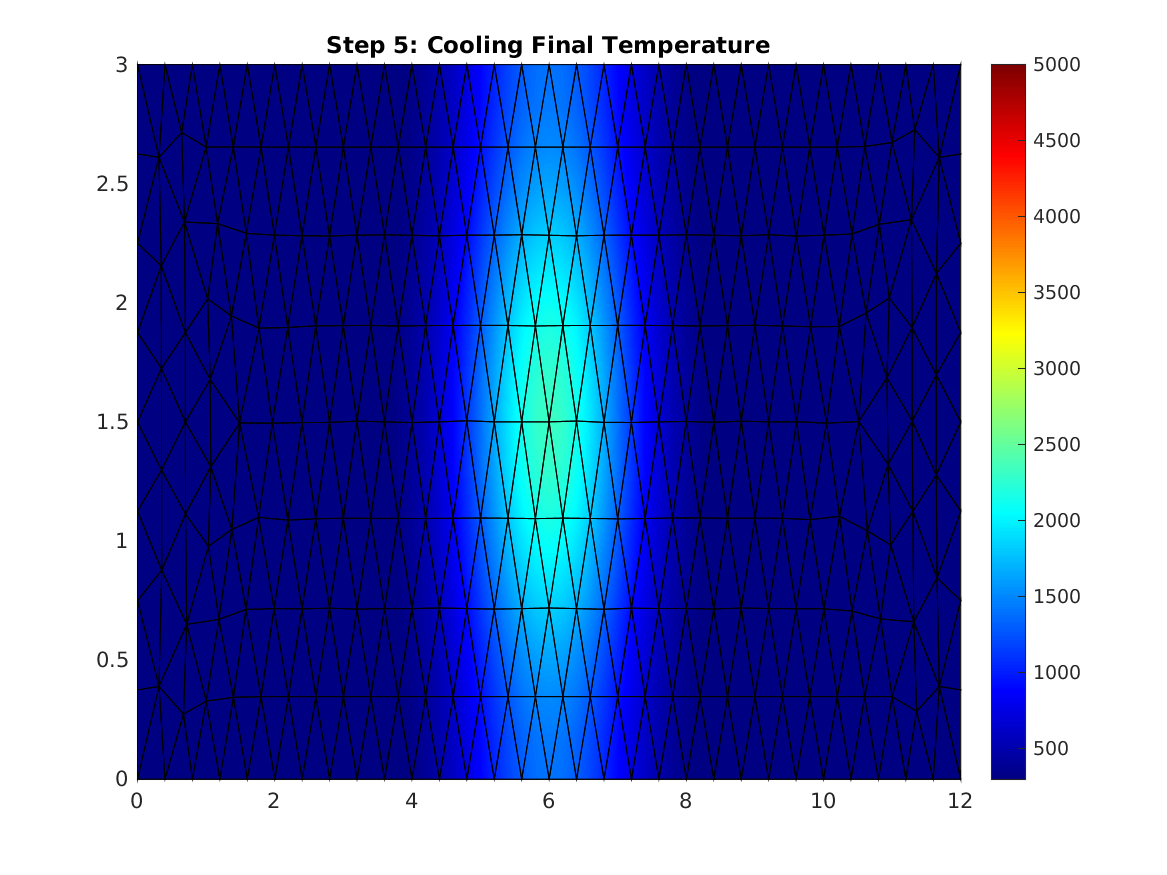
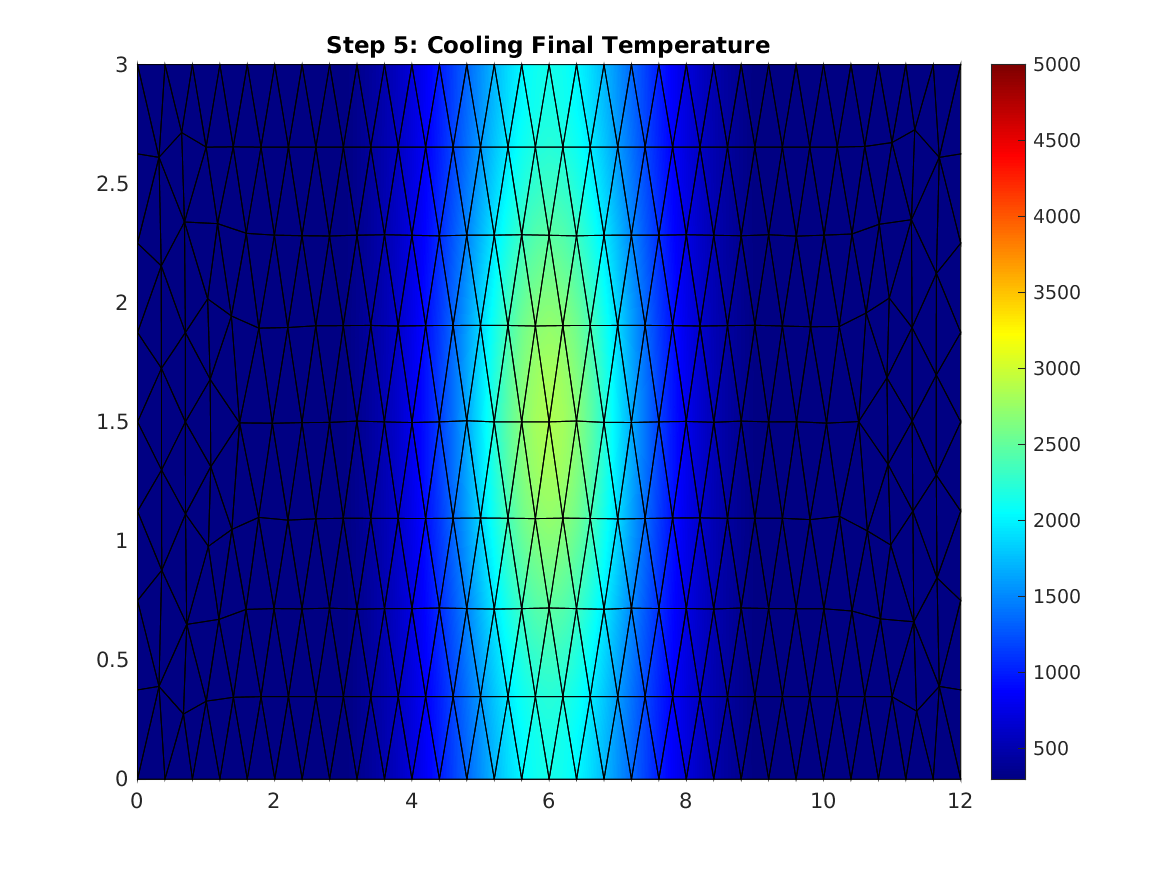
Sync: eval on real

Changed region(s): [[0.3085, 0.0617, 0.6478, 0.8949]]

diff --git a/test.py b/test.py
@@ -169,8 +169,13 @@ for i in range(nSteps):
     matlab_script = f"""
                     cd('{matlab_folder}');
                     paramsStruct = load('test/params.mat').paramsStruct;
+                    if {i} > 0
+                        prevData = load('test/results.mat', 'resultCool');
+                        paramsStruct.ic = prevData.resultCool;
+                    end
                     [uFinal, tAll, uAll, resultAll, model, meanDeviation] = simulateHeatingCooling(paramsStruct);
-                    save('test/results.mat','uFinal','tAll','uAll','meanDeviation');
+                    resultCool = resultAll(2);
+                    save('test/results.mat','uFinal','tAll','uAll','meanDeviation','resultCool');
                     i={i};
                     fig = figure('Visible','off');
                     pdeplot(model,'XYData',uFinal,'Mesh','on','ColorMap','jet');
@@ -201,10 +206,10 @@ for i in range(nSteps):
         capture_output=True
     )
 
-    # print("MATLAB stdout:")
-    # print(result.stdout)
-    # print("MATLAB stderr:")
-    # print(result.stderr)
+    # if result.stdout.strip():
+    #     print("MATLAB stdout:", result.stdout[-2000:])  # last 2000 chars to avoid spam
+    # if result.stderr.strip():
+    #     print("MATLAB stderr:", result.stderr[-2000:])
 
     if result.returncode != 0:
         raise RuntimeError(f"MATLAB failed with return code {result.returncode}")
@@ -220,6 +225,8 @@ for i in range(nSteps):
     states.append(torch.tensor(uFinal.flatten(), dtype=torch.float32).to(device))
 
     print("Reward:", -meanDeviation[0][0])
+    # IC for next layer is handled inside the MATLAB script via resultCool
+
     r_prev = -meanDeviation[0][0] # Used for P controller
     a_prev = params_dict['params']['LP']  # Used for P controller
     # print("uFinal shape:", uFinal.shape)
